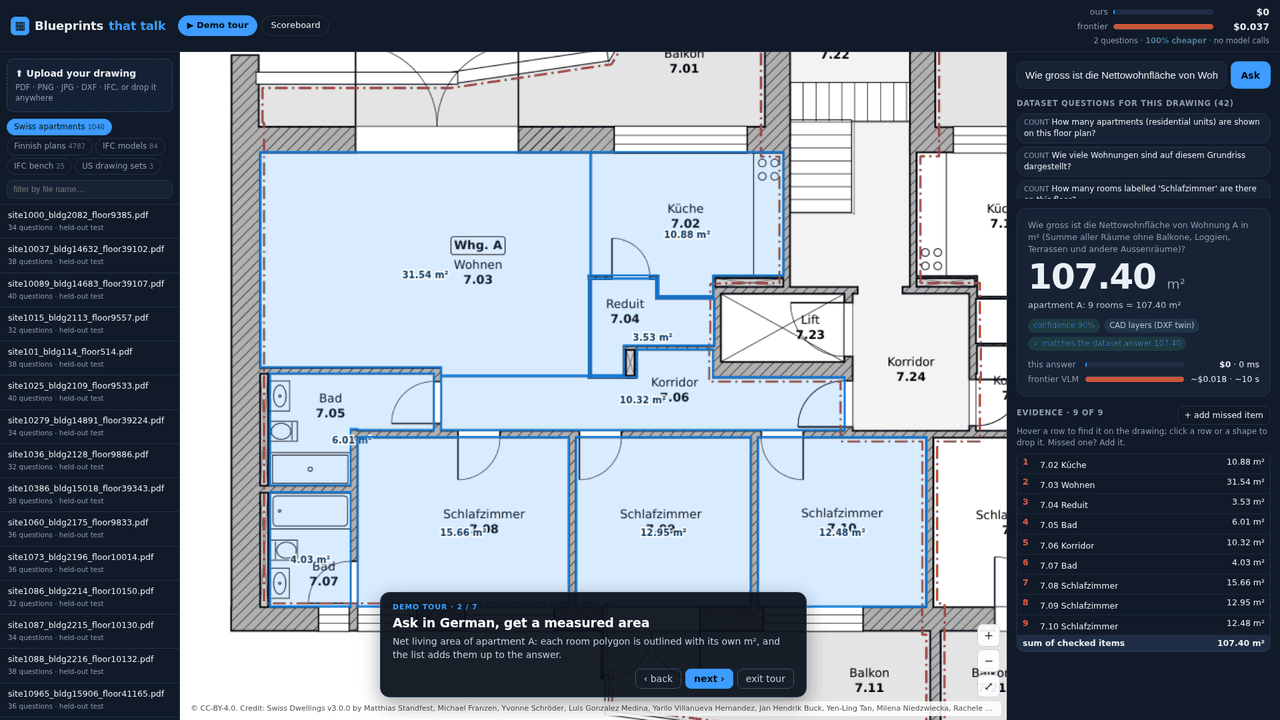
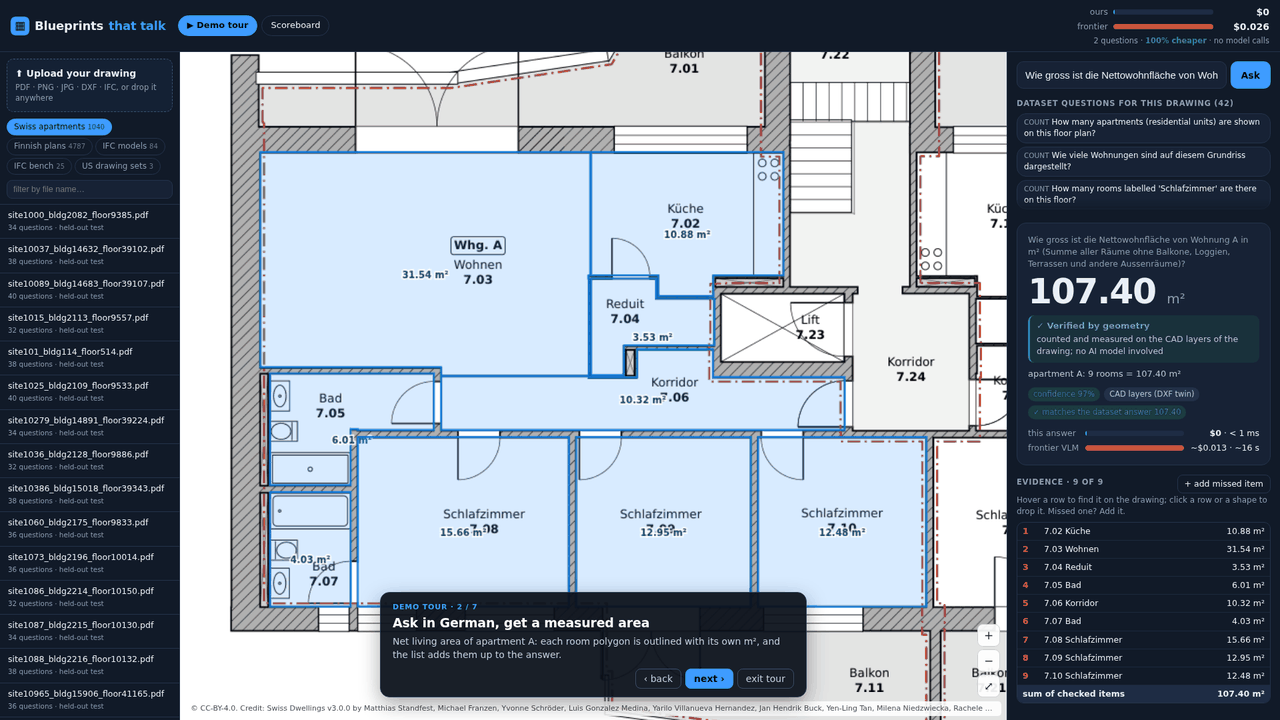
Demo app: chips before 3D load, IFC-only models stay in 3D, 3D toggle for every model, QA log, re-shot screenshots
- question chips no longer wait for a big IFC to tessellate; an answer that arrives before the model
  shows its final number instead of a stuck count
- IFC-bench / IFC uploads: '3D model' toggle always shown (Plan disabled without a sheet), text answers
  no longer switch to an empty plan
- tour step 4 uses the dataset question text, so its answer is checked against the dataset
- number badges sit beside thin text boxes instead of covering the printed values
- shared upload links list the upload; app/QA.md logs the pass (26 findings)

Changed region(s): [[0.7812, 0.275, 1.0, 0.9778], [0.9688, 0.4889, 1.0, 0.5194]]

diff --git a/app/static/app.js b/app/static/app.js
@@ -4,7 +4,7 @@ const $ = s => document.querySelector(s);
 const esc = s => String(s ?? '').replace(/[&<>"]/g, c => ({'&': '&amp;', '<': '&lt;', '>': '&gt;', '"': '&quot;'}[c]));
 const SRC = {swiss_dwellings: 'Swiss apartments', cubicasa5k: 'Finnish plans', ifc_models: 'IFC models', ifc_bench: 'IFC bench',
              opening_design: 'US drawing sets', upload: 'Your uploads'};
-const ROUTE = {swiss: 'CAD layers (DXF twin)', ifc: 'IFC model query', cubicasa: 'plan symbol detector', generic: 'generic drawing reader'};
+const ROUTE = {swiss: 'CAD layers (DXF twin)', ifc: 'IFC model query', cubicasa: 'plan symbol detector', generic: 'generic drawing reader', ifctext: 'IFC fact sheet'};
 const NS = 'http://www.w3.org/2000/svg';
 
 let tab = 'swiss_dwellings', cur = null, res = null, items = [], marks = [], adding = false, primary = '2d';
@@ -144,7 +144,10 @@ function applyStorey(reframe) {
   return si;
 }
 function highlight3d(animate) {
-  if (!window.V3 || !V3.hasModel() || loaded3d !== cur.path) return;
+  if (!window.V3 || !V3.hasModel() || loaded3d !== cur.path) {  // model still loading: show the final number now
+    if (animate) { animating = false; renderAnswer(null); }
+    return;
+  }
   const it = ifcItems();
   applyStorey(false);
   if (!it.length) { V3.clear(); V3.focusStorey(null, false); return; }
@@ -225,12 +228,16 @@ async function select(d, how = 'push') {
   }
   const info = await r.json();
   if (cur.path !== d.path) return;
+  if (d.path.startsWith('uploads/') && !uploads.some(u => u.path === d.path)) {  // opened from a shared link
+    uploads = [{path: d.path, kind: info.kind, ext: d.path.split('.').pop(), source: 'upload', split: 'upload'}, ...uploads].slice(0, 30);
+    localStorage.setItem('bp_uploads', JSON.stringify(uploads)); if (tab === 'upload') loadList();
+  }
   Object.assign(cur, info); has3d = info.has3d; loaded3d = null; loading(''); if (window.V3) V3.clear();
-  $('#modes').classList.toggle('show', has3d && !!info.view);
+  $('#modes').classList.toggle('show', has3d);  // a model without a plan sheet still shows "3D model", with Plan disabled
+  $('#m2d').disabled = !info.view; $('#m2d').title = info.view ? '' : 'no plan sheet for this model';
   $('#credit').textContent = info.credit ? '© ' + info.credit : '';
   showImage(info.view);
   if (!info.view && !has3d) { $('#empty').hidden = false; $('#empty').textContent = 'No preview for this file type, but you can still ask about it.'; }
-  await setMode(info.view ? '2d' : (has3d ? '3d' : '2d'));
   const chips = $('#chips'); chips.innerHTML = '';
   $('#qstitle').textContent = d.source === 'upload' || d.split === 'upload' ? 'Try asking' : `Dataset questions for this drawing (${info.questions.length})`;
   for (const q of info.questions) {
@@ -238,6 +245,8 @@ async function select(d, how = 'push') {
     c.innerHTML = `<span class="ty">${esc(q.type)}</span>${esc(q.question)}`;
     c.onclick = () => { $('#q').value = q.question; ask(); }; chips.appendChild(c);
   }
+  // chips first: a big model can take a while to tessellate and the questions should not wait for it
+  if (cur.path === d.path) await setMode(info.view ? '2d' : (has3d ? '3d' : '2d'));
 }
 function showImage(view) {
   cur.shown = view || null;
@@ -309,7 +318,7 @@ async function ask() {
   renderAnswer(items.length && typeof res.answer === 'number' ? 0 : null);
   if (primary === 'ifc' && has3d) { await setMode('3d'); highlight3d(true); }
   else {
-    if (mode === '3d') await setMode('2d');
+    if (mode === '3d' && cur.shown) await setMode('2d');  // no plan sheet (IFC-only): stay in 3D
     const go = () => { zoomToEvidence(); draw(true); };
     if (cur.shown && img.complete && img.naturalWidth && img.getAttribute('src')?.includes(encodeURIComponent(cur.shown))) go();
     else pendingDraw = go;
@@ -471,6 +480,8 @@ function shapeFor(e, i, W, H) {
     shape.setAttribute('rx', 2);
     const cls = e.mark ? (e.kind === 'text' ? 'bx txt' : 'bx mark') : 'bx appear' + (e.on ? '' : ' off') + (e.added ? ' added' : '');
     shape.setAttribute('class', cls); lx = x0 * W; ly = y0 * H;
+    // a thin box (a text label, a wall): put the number just left of it so it does not cover what it marks
+    if ((y1 - y0) * H < fs * 2.2) { lx = x0 * W - fs * 0.85; ly = (y0 + y1) / 2 * H; }
   }
   const tip = document.createElementNS(NS, 'title'); tip.textContent = (e.label || '') + (e.value != null && res.type !== 'count' ? ` = ${fmt(e.value, res.type)} ${unitOf(res.type)}` : '');
   shape.appendChild(tip);

diff --git a/app/static/app.css b/app/static/app.css
@@ -63,6 +63,7 @@ main { flex: 1; display: grid; grid-template-columns: 270px 1fr 410px; min-heigh
 .modes.show { display: flex; }
 .modes button { border: 1px solid var(--line); background: var(--panel); color: var(--mut); padding: 6px 13px; cursor: pointer; font-size: 13px; }
 .modes button:first-child { border-radius: 9px 0 0 9px; } .modes button:last-child { border-radius: 0 9px 9px 0; }
+.modes button:disabled { opacity: .45; cursor: not-allowed; }
 .modes button.on { background: var(--acc); color: #001; border-color: var(--acc); font-weight: 600; }
 .tools3d { position: absolute; top: 50px; right: 10px; display: none; flex-direction: column; gap: 6px; z-index: 5; background: rgba(17,26,40,.92); padding: 8px 10px; border-radius: 9px; font-size: 12px; color: var(--mut); }
 #viewer.mode3d .tools3d.show { display: flex; }

diff --git a/app/QA.md b/app/QA.md
@@ -1,0 +1,52 @@
+# Demo app QA log
+
+Pass on 2026-11-13 at 1440×900, 1920×1080 and 390×844 (touch, DPR 2), headless Chromium with
+swiftshader WebGL. Covered: all 7 tour steps (desktop + phone), 5 drawings × 3 questions per source tab
+(EN, FI, DE, FR, IT, NL, DA, ET questions), free-typed questions, uploads (PNG, vector PDF, DXF, small IFC,
+a .txt and a broken PDF), /results, 3D storey cut and click-to-toggle, correction by click (remove / add),
+back / forward / reload, big-IFC first load. Screenshots were taken to `/tmp/qa/shots/` (ephemeral);
+the final state is in `docs/img/`.
+
+Severity: **H** visible in the demo / wrong number, **M** visible and ugly or confusing, **L** polish.
+
+| # | Sev | What | Where | Status |
+|---|-----|------|-------|--------|
+| 1 | H | 3D count animation is tick-based: on a slow GPU (swiftshader, the recorded video) the big number sat at a partial sum (125.63 / 149.83 m) for seconds while the answer is 185.13 m; screenshots caught it. If the animation was cancelled, the partial number stayed forever. | tour step 6, any 3D sum | fixed: time-based animation, `clear()` finishes a cancelled count, the tour waits for the count |
+| 2 | H | Phone: hovering an evidence row called `scrollIntoView`, which scrolled the **page**, so the tour showed only the caption and the list, not the drawing | phone tour steps 2–7 | fixed: only the list scrolls |
+| 3 | H | /results used the 200-question Sonnet preview run (CubiCasa 84.7 %) instead of the full-set baselines re-weighted to the test mix | /results | fixed: reads `analysis/out/*.csv` (87.2 / 63.2 / 60.6 / 41.6 %), adds per-language table and cost/speed table; raw runs folded away |
+| 4 | H | Tour step 4 question text differed from the dataset question (`ilman ovea` vs `ilman ovilehteä`), so no "matches the dataset answer" pill (and it was treated as free text) | tour.json | fixed |
+| 5 | H | No URL state: back / forward lost the drawing and answer; reload went to the first drawing | app.js | fixed: drawing + question in the URL (push on pick, replace on ask), popstate restores |
+| 6 | M | Free-typed questions on dataset drawings abstained with "question not understood" / "question template not recognised" | /api/ask | fixed: specialist abstains on a free question → the generic reader tries (text layer first, 75 s cap), explanation says so |
+| 7 | M | Solver error text leaked internals ("generic solver failed: SafetensorError: …", "Failed to open file 'cache/uploads/…'") | /api/ask, /api/upload | fixed: friendly text, detail kept in `error` |
+| 8 | M | Upload timeouts were reported as "uploads of this kind (raster) are not routed to a solver yet" | /api/ask | fixed |
+| 9 | M | IFC credit line started "© \| file.ifc \| …" (raw table row) | credit_for | fixed: "title · licence · credit"; click the credit to show it in full |
+| 10 | M | Phone header took ~160 px (3 rows), answer card below the fold | phone | fixed: one-row header + one-line cost meter, viewer 50svh, answer above the suggestions, tour caption is a bottom sheet |
+| 11 | M | Phone drawer had no backdrop; its shadow bled onto the viewer edge when closed | phone | fixed: scrim (tap to close), shadow only when open, Esc closes |
+| 12 | M | Shared link to an upload that is gone rendered a blank viewer with "Could not render" | /api/questions | fixed: 404 + "This upload is no longer on the server…" |
+| 13 | M | Adding a missed item did nothing when the click landed on an existing shape | correction | fixed |
+| 14 | M | Room counts (polygons) had no numbers on the drawing; list numbers were vertically misaligned with labels | overlay, evidence list | fixed: numbered polygons for count answers; grid rows |
+| 15 | M | Numbered badges covered the printed m² values they point at (text-layer answers) | overlay | fixed: badge sits left of thin boxes |
+| 16 | M | DXF upload: vision fallback cannot render DXF ("no text layer and no renderable page") | /api/ask | fixed in app: retry on the PNG rendered from the same extents (but see open issue A) |
+| 17 | M | Loading overlay for a big IFC had no clock and could stay up after switching to another drawing | 3D load | fixed: elapsed seconds, overlay only for the current drawing |
+| 18 | L | Latency shown as "0 ms" for cached answers | answer card | fixed: "< 1 ms" |
+| 19 | L | Suggestion chips cut mid-line | side panel | fixed: fade-out mask, taller box |
+| 20 | L | Empty side panel before the first question | side panel | fixed: intro card with languages + keyboard hints |
+| 21 | L | No favicon / description / social preview | index, results | fixed: SVG favicon, description, og:image (`/static/og.png`) |
+| 22 | L | No keyboard shortcuts besides Enter | app.js | added: Esc (leave tour / stop adding / close drawer), `/` focus, ← → tour, `f` fit, `+ −` zoom |
+| 23 | L | Thinking text promised "nothing is sent to a paid model", untrue for the generic fallback | answer card | fixed |
+| 24 | L | Session meter could say "-20 % cheaper" | header | fixed ("dearer") |
+| 25 | L | Shared upload link did not list the upload in "Your uploads" | list | fixed |
+| 26 | L | /results tables overflowed on a phone | /results | fixed: compact cells under 640 px |
+
+New: each answer carries a "how" badge: **Verified by geometry** (Swiss CAD layers, IFC queries),
+**Looked up in the BIM model** (IFC rules), **Detected by vision** (CubiCasa detector, grounded VLM),
+**Answered by an LLM** (text-layer reader, IFC fact sheet), **Abstained / Not in the model**, each with a one-line how.
+
+## Open (not app bugs, or not fixable from app/)
+
+- A. Generic vision path (PNG / scanned uploads, DXF via PNG, free questions on CubiCasa) times out while the
+  GPU is saturated by CubiCasa training (96 % util): asks take 75–120 s and abstain. Should be fine once training stops.
+- B. Solver quality seen in the pass: vector-PDF upload door count 0 at confidence 0.9 (generic); CubiCasa
+  colorful-12202 windows 2 vs gold 1; IFC upload "total floor area of spaces" abstains (no area quantities).
+- C. Headless phone emulation of the 3D steps is slow (swiftshader at DPR 2: 1–3 min per step); real devices use the GPU.
+- D. Timed-out solver threads keep running in the 8-thread pool; many concurrent slow uploads could starve it.
